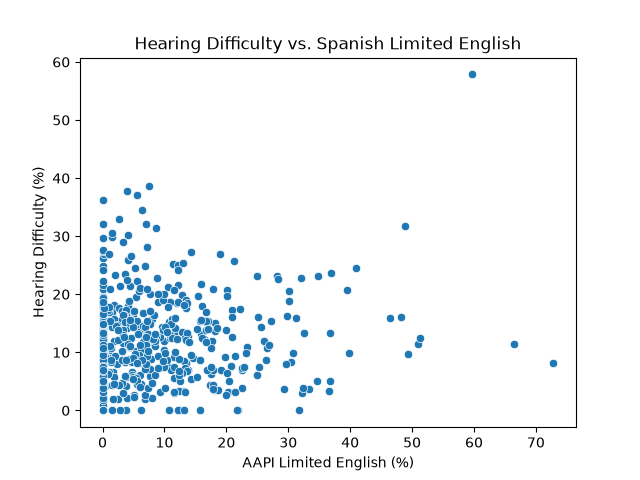
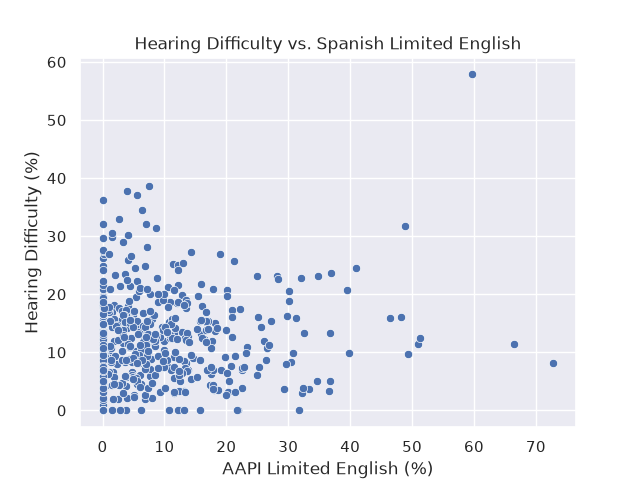
Flake8 formatting

diff --git a/test_data.py b/test_data.py
@@ -19,13 +19,16 @@ def pick_high_tracts(cleaned_data):
     high_spanish_tract = cleaned_data.sort_values(
         "Spanish_limited_percent", ascending=False
     )["GEOID"].iloc[0]
-    high_AAPI_tract = cleaned_data.sort_values("AAPI_limited_percent", ascending=False)[
-        "GEOID"
-    ].iloc[0]
-    near_min_pop_cutoff = cleaned_data.sort_values("language_total_65", ascending=True)[
-        "GEOID"
-    ].iloc[0]
-    return [random_tract, high_spanish_tract, high_AAPI_tract, near_min_pop_cutoff]
+    high_AAPI_tract = cleaned_data.sort_values(
+        "AAPI_limited_percent",
+        ascending=False)["GEOID"].iloc[0]
+    near_min_pop_cutoff = cleaned_data.sort_values(
+        "language_total_65",
+        ascending=True)["GEOID"].iloc[0]
+    return [random_tract,
+            high_spanish_tract,
+            high_AAPI_tract,
+            near_min_pop_cutoff]
 
 
 def show_tract_data(geoid, language_raw_df, hearing_raw_df, cleaned_data):
@@ -35,9 +38,12 @@ def show_tract_data(geoid, language_raw_df, hearing_raw_df, cleaned_data):
 
     print("GEOID: ", geoid)
     print("LANGUAGE")
-    print(language_geoid_row[[LANGUAGE_ALL] + SPANISH_LIMITED + ASIAN_PACFIC_LIMITED])
+    print(language_geoid_row[[LANGUAGE_ALL] +
+          SPANISH_LIMITED +
+          ASIAN_PACFIC_LIMITED])
     print("HEARING")
-    print(hearing_geoid_row[HEARING_DIFFICULTY_VARS + ALL_HEARING_VARS])
+    print(hearing_geoid_row[HEARING_DIFFICULTY_VARS +
+                            ALL_HEARING_VARS])
     print("CLEANED DATA")
     print(
         cleaned_geoid_row[
@@ -66,16 +72,27 @@ def main():
     print(language_raw_data["GEOID"].dtype, language_raw_data["GEOID"].iloc[0])
 
     for geoid in pick_high_tracts(cleaned_data):
-        show_tract_data(geoid, language_raw_data, hearing_raw_data, cleaned_data)
+        show_tract_data(geoid,
+                        language_raw_data,
+                        hearing_raw_data,
+                        cleaned_data)
 
     count_missing_data(
-        language_raw_data, [LANGUAGE_ALL] + SPANISH_LIMITED + ASIAN_PACFIC_LIMITED
+        language_raw_data,
+        [LANGUAGE_ALL] +
+        SPANISH_LIMITED +
+        ASIAN_PACFIC_LIMITED
     )
-    count_missing_data(hearing_raw_data, ALL_HEARING_VARS + HEARING_DIFFICULTY_VARS)
+    count_missing_data(hearing_raw_data,
+                       ALL_HEARING_VARS +
+                       HEARING_DIFFICULTY_VARS)
     small_tracts = language_raw_data[
         language_raw_data[LANGUAGE_ALL] < MIN_POPULATION_SIZE
     ]
-    print("Tracts under ", MIN_POPULATION_SIZE, " for language: ", len(small_tracts))
+    print("Tracts under ",
+          MIN_POPULATION_SIZE,
+          " for language: ",
+          len(small_tracts))
 
     tracts = gpd.read_file(TIGER_PATH)
     tracts = tracts[tracts["COUNTYFP"] == "033"]

diff --git a/clean_data.py b/clean_data.py
@@ -15,7 +15,10 @@ ASIAN_PACFIC_LIMITED = ["B16004_060E", "B16004_061E", "B16004_062E"]
 
 ALL_HEARING_VARS = ["B18102_015E", "B18102_018E", "B18102_034E", "B18102_037E"]
 
-HEARING_DIFFICULTY_VARS = ["B18102_016E", "B18102_019E", "B18102_035E", "B18102_038E"]
+HEARING_DIFFICULTY_VARS = ["B18102_016E",
+                           "B18102_019E",
+                           "B18102_035E",
+                           "B18102_038E"]
 
 
 def remove_missing_data(df, columns):
@@ -44,7 +47,9 @@ def clean_hearing_data(df):
     final_df = pd.DataFrame()
     final_df["GEOID"] = df["GEOID"]
     final_df["hearing_total_65"] = all_hearing
-    final_df["hearing_difficulty_percent"] = (hearing_difficulty / all_hearing) * 100
+    final_df["hearing_difficulty_percent"] = (
+        (hearing_difficulty / all_hearing) * 100
+        )
     return final_df
 
 
@@ -56,10 +61,13 @@ def main():
     print("Raw Language data length: ", len(language_raw_data))
     print("Raw Hearing data length: ", len(hearing_raw_data))
 
-    all_language_columns = [LANGUAGE_ALL] + SPANISH_LIMITED + ASIAN_PACFIC_LIMITED
+    all_language_columns = ([LANGUAGE_ALL] +
+                            SPANISH_LIMITED +
+                            ASIAN_PACFIC_LIMITED)
     all_hearing_coulmns = ALL_HEARING_VARS + HEARING_DIFFICULTY_VARS
 
-    language_data = remove_missing_data(language_raw_data, all_language_columns)
+    language_data = remove_missing_data(language_raw_data,
+                                        all_language_columns)
     hearing_data = remove_missing_data(hearing_raw_data, all_hearing_coulmns)
 
     print("After removal of missing data language: ", len(language_data))

diff --git a/create_plots.py b/create_plots.py
@@ -14,7 +14,10 @@ print(tracts["hearing_difficulty_percent"].describe())
 fig, ax = plt.subplots()
 
 sns.scatterplot(
-    data=tracts, x="Spanish_limited_percent", y="hearing_difficulty_percent", ax=ax
+    data=tracts,
+    x="Spanish_limited_percent",
+    y="hearing_difficulty_percent",
+    ax=ax
 )
 ax.set_xlabel("Spanish Limited English (%)")
 ax.set_ylabel("Hearing Difficulty (%)")
@@ -24,7 +27,10 @@ fig.savefig("plots/spanish_vs_hearing.png")
 fig, ax = plt.subplots()
 
 sns.scatterplot(
-    data=tracts, x="AAPI_limited_percent", y="hearing_difficulty_percent", ax=ax
+    data=tracts,
+    x="AAPI_limited_percent",
+    y="hearing_difficulty_percent",
+    ax=ax
 )
 ax.set_xlabel("AAPI Limited English (%)")
 ax.set_ylabel("Hearing Difficulty (%)")
@@ -33,7 +39,13 @@ fig.savefig("plots/AAPI_vs_hearing.png")
 
 fig, ax = plt.subplots()
 
-tracts.plot(column="hearing_difficulty_percent", ax=ax, legend=True, cmap="OrRd")
+tracts.plot(
+    column="hearing_difficulty_percent",
+    ax=ax,
+    legend=True,
+    legend_kwds={"label": "Hearing Difficulty", "shrink": 0.7},
+    cmap="OrRd",
+)
 ax.set_title("Hearing Difficulty among adults 65+ in King County, Washington")
 ax.set_axis_off()
 fig.savefig("plots/hearing_map.png")

diff --git a/test_cleaned_data.py b/test_cleaned_data.py
@@ -43,7 +43,8 @@ def main():
     custom_hearing_df = pd.DataFrame(
         [
             build_hearing_row("53033032221", 200, 61, 224, 137, 6, 10, 0, 0),
-            build_hearing_row("53033008900", 371, 135, 170, 126, 17, 103, 16, 15),
+            build_hearing_row("53033008900", 371, 135, 170, 126,
+                              17, 103, 16, 15),
             build_hearing_row("53033009100", 134, 260, 387, 166, 0, 28, 0, 50),
             build_hearing_row("53033007405", 24, 0, 19, 59, 0, 0, 19, 0),
         ]
@@ -55,7 +56,8 @@ def main():
 
     expected_result = {
         "53033032221": (0.0, (32 / 622) * 100, (16 / 622) * 100),
-        "53033008900": ((420 / 882) * 100, (38 / 882) * 100, (151 / 802) * 100),
+        "53033008900": (((420 / 882) * 100, (38 / 882) * 100,
+                        (151 / 802) * 100)),
         "53033009100": (0.0, (697 / 957) * 100, (78 / 947) * 100),
         "53033007405": (0.0, 0.0, (19 / 102) * 100),
     }

diff --git a/download_acs.py b/download_acs.py
@@ -25,7 +25,8 @@ LANGUAGE_VARS = [
     "B16004_062E",
 ]
 ALL_HEARING_VARS = ["B18102_015E", "B18102_018E", "B18102_034E", "B18102_037E"]
-HEARING_DIFFICULTY_VARS = ["B18102_016E", "B18102_019E", "B18102_035E", "B18102_038E"]
+HEARING_DIFFICULTY_VARS = ["B18102_016E", "B18102_019E",
+                           "B18102_035E", "B18102_038E"]
 
 
 def get_acs(variables: list[str], key: str) -> pd.DataFrame:
